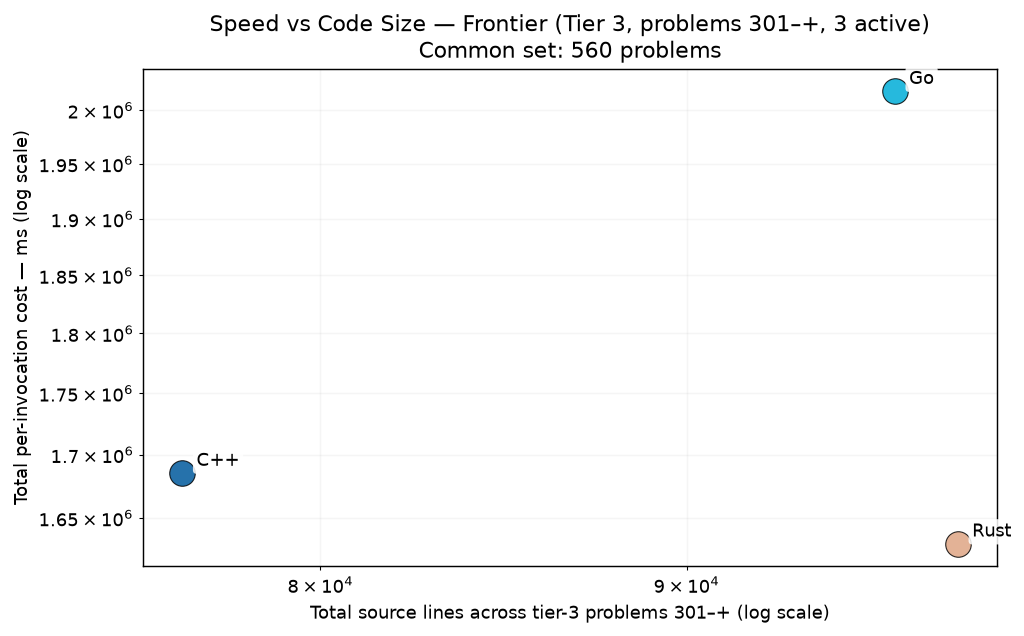
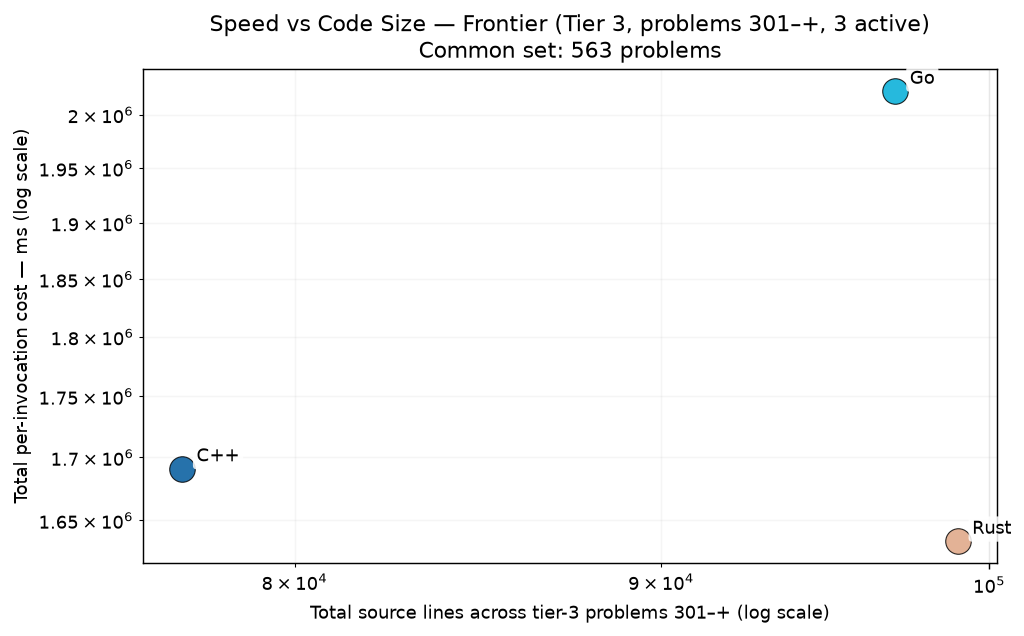
bench: p715 p831 p891 (cpp/go/rust)

diff --git a/RESULTS.md b/RESULTS.md
@@ -1,6 +1,6 @@
 # Project Euler — Cross-Language Benchmarks
 
-> **Scope: 4521 in-scope cells across 1007 problems × tiered languages — 4092 measured (90.5% coverage).**
+> **Scope: 4521 in-scope cells across 1007 problems × tiered languages — 4101 measured (90.7% coverage).**
 > The cross-language ranking below is computed over the **200-problem common set** (problems in 1-200 where every language has a passing measurement) — the apples-to-apples Foundation comparison surface.  Per-tier rankings and coverage detail appear further below.
 > Growing carefully — each new problem and language is audited for state-leak
 > safety, verified for answer correctness, and added only when it cleanly fits the
@@ -70,15 +70,15 @@ Same scatter as the Foundation chart, restricted to the tier-2 active languages 
 
 The frontier verification trio — C++, Go, Rust — on problems above 300. 3-way cross-language agreement is the verification protocol (strictly stronger than 2-way; see JOURNEY.md "Tier Reframing" episode for the p254 lesson that motivated it). Python and Zig are explicitly out of this tier — python's wall cost makes it impractical at level 5+, and zig's role caps at Tier 2.
 
-### Per-Invocation Cost (Common Set, 560 of ≤707 problems in scope)
+### Per-Invocation Cost (Common Set, 563 of ≤707 problems in scope)
 
 ![Per-Invocation Cost — Tier 3](charts/per_iter_total_tier3.png)
 
-| Rank | Language | Geomean (560-problem common set) | Total (sum) | Lines of code | vs Fastest |
+| Rank | Language | Geomean (563-problem common set) | Total (sum) | Lines of code | vs Fastest |
 |------|----------|--------------------:|------------:|--------------:|-----------:|
-| 1 | **Rust** | 70.15 ms | 1630.00 s | 98,202 | 1.00× |
-| 2 | **C++** | 70.41 ms | 1685.26 s | 76,517 | 1.00× |
-| 3 | **Go** | 85.54 ms | 2017.97 s | 96,230 | 1.22× |
+| 1 | **C++** | 70.22 ms | 1691.01 s | 77,161 | 1.00× |
+| 2 | **Rust** | 70.93 ms | 1633.91 s | 98,998 | 1.01× |
+| 3 | **Go** | 86.16 ms | 2022.58 s | 97,035 | 1.23× |
 
 ### Speed vs Code Size
 

diff --git a/per_problem/per_problem_0801-0900.md b/per_problem/per_problem_0801-0900.md
@@ -38,7 +38,7 @@ in tier-1 display order (native → managed → interpreted).
 | **p0828** | 357.42 ms | 281.88 ms | 381.31 ms |
 | **p0829** | 1.02 s | 3.71 s | 32.70 ms |
 | **p0830** | — | — | — |
-| **p0831** | — | — | — |
+| **p0831** | 26.2 µs | 477.41 ms | 39.02 ms |
 | **p0832** | 60.9 µs | 48.1 µs | 42.2 µs |
 | **p0833** | — | — | — |
 | **p0834** | 113.55 ms | 407.92 ms | 168.93 ms |
@@ -98,7 +98,7 @@ in tier-1 display order (native → managed → interpreted).
 | **p0888** | 493.73 ms | 254.54 ms | 228.23 ms |
 | **p0889** | 49.0 µs | 1.89 ms | 8.44 ms |
 | **p0890** | 292.27 ms | 359.17 ms | 296.99 ms |
-| **p0891** | — | — | — |
+| **p0891** | 140.66 ms | 111.22 ms | 204.46 ms |
 | **p0892** | 61.47 ms | 104.49 ms | 81.65 ms |
 | **p0893** | 9.18 s | 11.41 s | 11.46 s |
 | **p0894** | 4.2 µs~ | 10.15 ms | 2.35 s |

diff --git a/per_problem/per_problem_0701-0800.md b/per_problem/per_problem_0701-0800.md
@@ -22,7 +22,7 @@ in tier-1 display order (native → managed → interpreted).
 | **p0712** | 476.23 ms | 510.09 ms | 487.96 ms |
 | **p0713** | 16.96 ms | 15.51 ms | 17.42 ms |
 | **p0714** | ✗ fail | — | — |
-| **p0715** | — | — | — |
+| **p0715** | 5.61 s | 3.31 s | 4.36 s |
 | **p0716** | 15.85 ms | 4.48 ms | 11.02 ms |
 | **p0717** | 1.28 s | 1.33 s | 477.03 ms |
 | **p0718** | 1.92 s | 1.70 s | 6.34 s |
